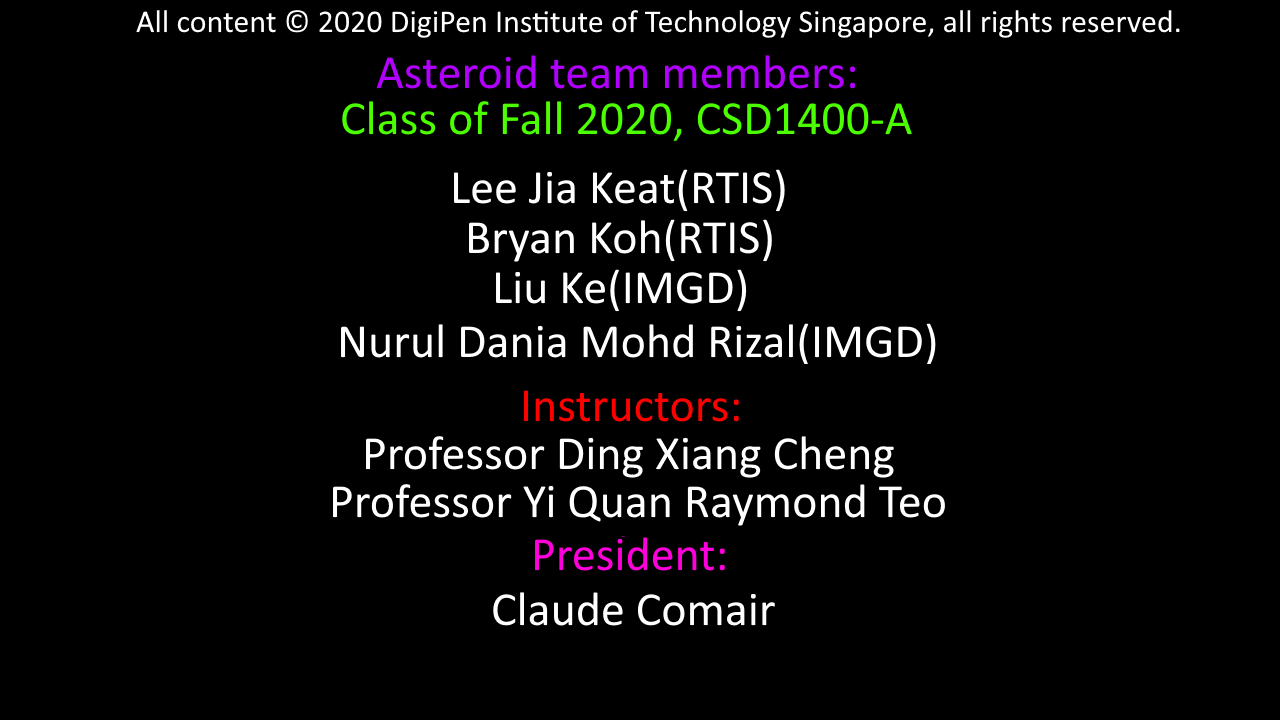
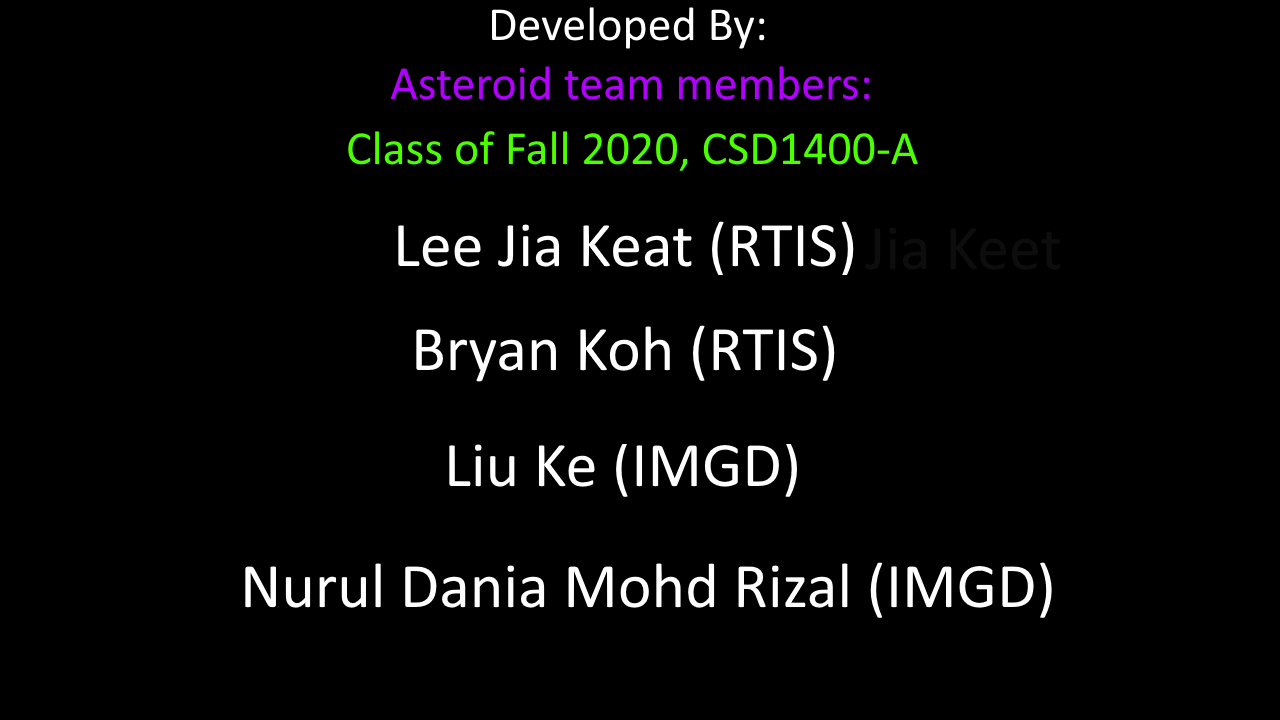
maybe done idk

Changed region(s): [[0.0938, 0.0, 0.9375, 0.4278], [0.1875, 0.55, 0.8438, 0.8861], [0.25, 0.4278, 0.75, 0.5194]]

diff --git a/src/asteroids/credits.c b/src/asteroids/credits.c
@@ -2,8 +2,6 @@
 #include "button.h"
 #include "main_menu.h"
 
-enum CREDUTS_SCREEN {page1, page2, page3 };
-
 #define btnWidth 200
 #define btnHeight 75
 #define btnText 75
@@ -59,7 +57,7 @@ void Asteroids_Credits_Screen_Update(void)
 	Asteroids_Button_Update(&exitBtn);
 	if(overlay.ID != MAXPAGE - 1)
 		Asteroids_Button_Update(&nextBtn);
-	if(overlay.ID != page1)
+	if(overlay.ID != 0)
 		Asteroids_Button_Update(&backBtn);
 }
 void Asteroids_Credits_Screen_Exit(void)

diff --git a/src/asteroids/game.c b/src/asteroids/game.c
@@ -82,7 +82,6 @@ void Asteroids_Init(void)
 	explosion_init();
 	smoke_init();
 	Asteroids_Particles_Player_Death_Particle_Init();
-	//player_death_init();
 
 	Asteroids_Entities_Init();
 	Asteroids_Pause_Init();

diff --git a/src/asteroids/credits.h b/src/asteroids/credits.h
@@ -1,7 +1,7 @@
 #pragma once
 #include "cprocessing.h"
 
-#define MAXPAGE 3
+#define MAXPAGE 4
 typedef struct creditsScreen
 {
 	int ID;
